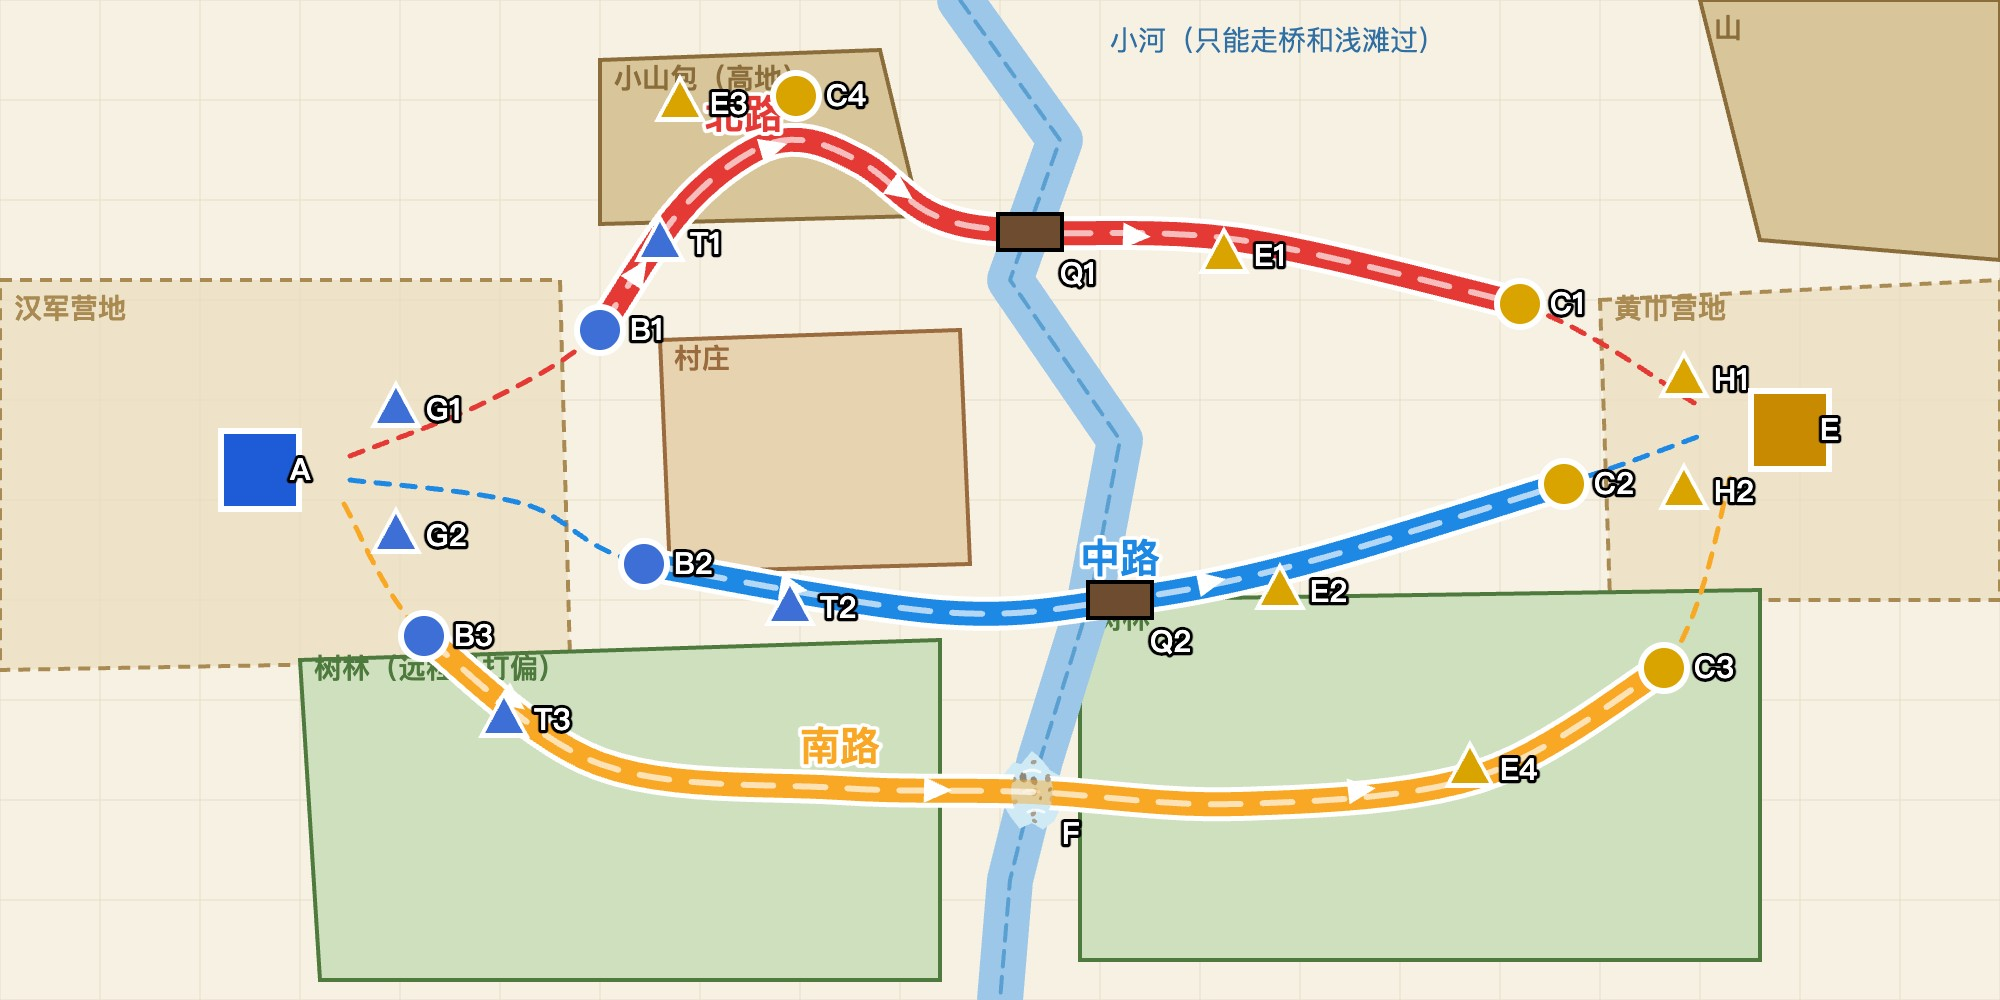
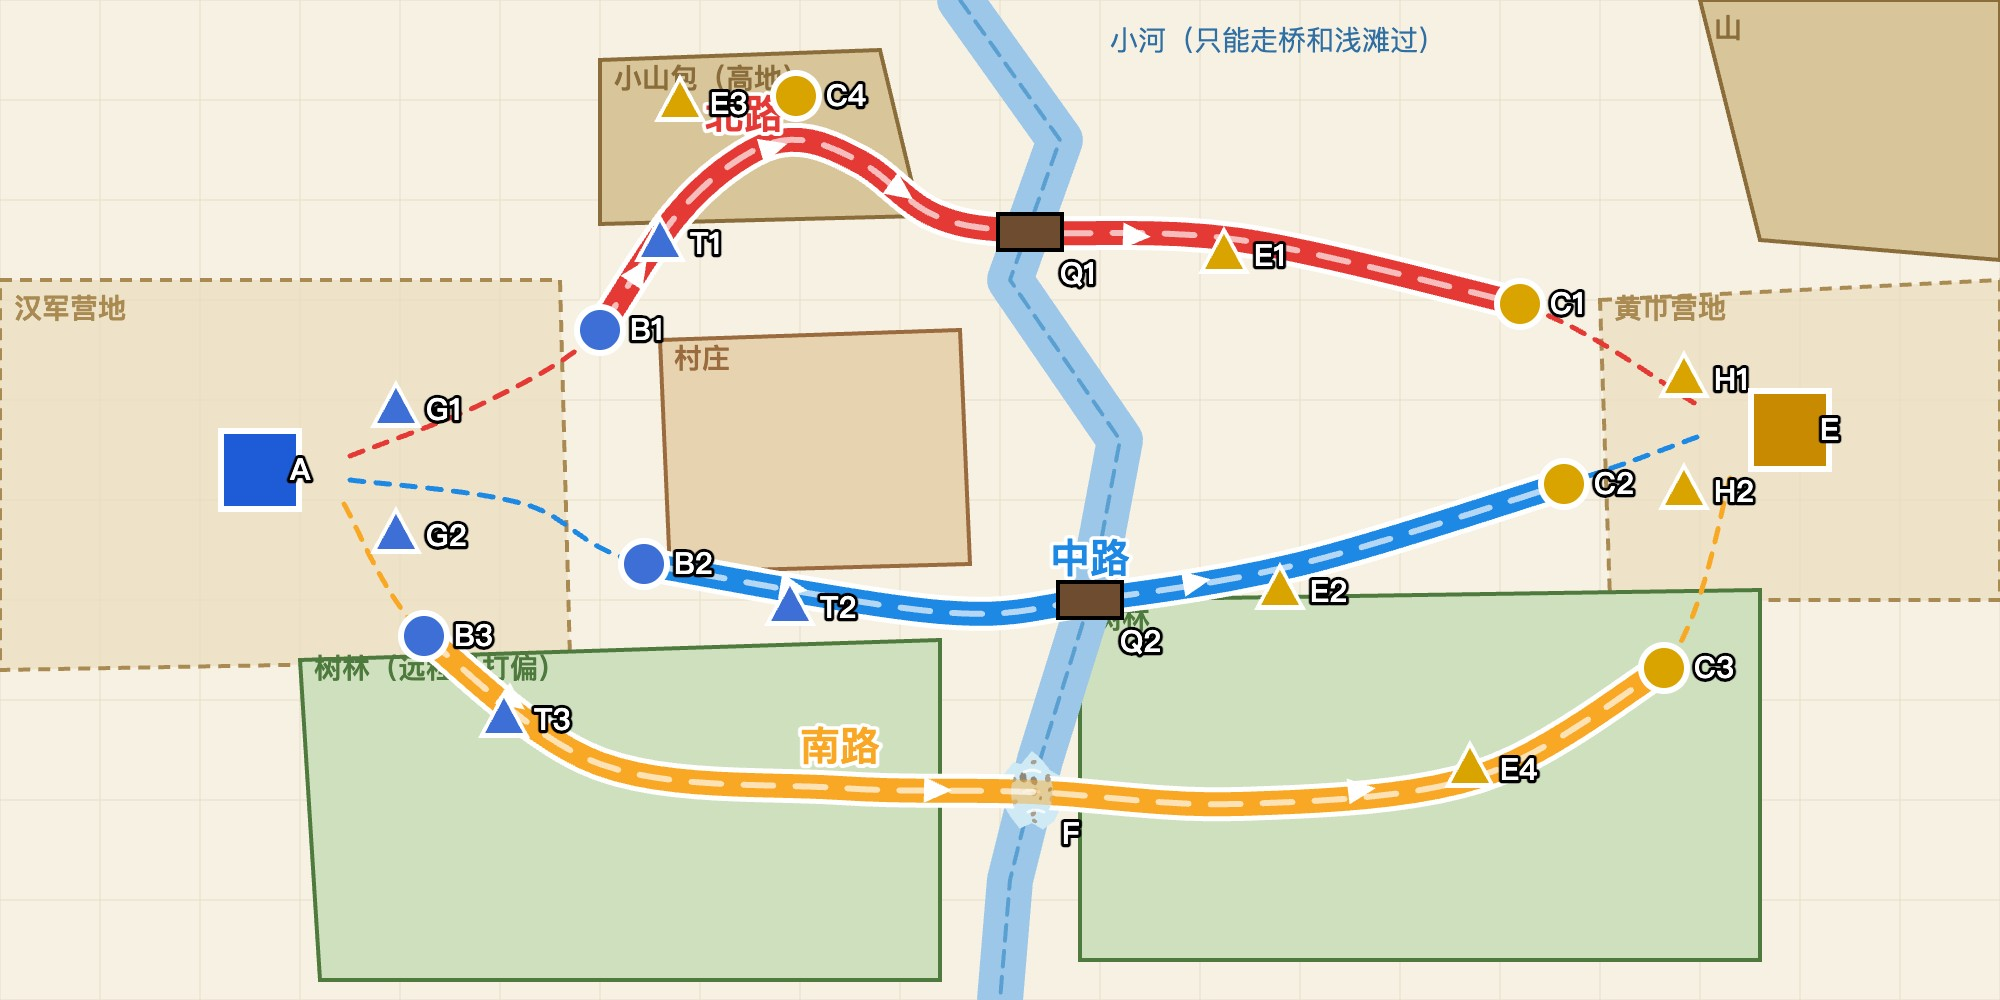
修正中桥位置（原来偏离河道 15）；新增出图前规划检查 check_plan.py，出图后检查桥是否架在河上

Changed region(s): [[0.496, 0.527, 0.651, 0.682], [0.713, 0.496, 0.744, 0.527], [0.682, 0.527, 0.713, 0.558]]

diff --git a/docs/涿郡出图参考.html b/docs/涿郡出图参考.html
@@ -8,7 +8,7 @@ h2{margin:6px 0 8px}.k{display:inline-block;width:26px;height:26px;border-radius
 const K=2;
 const ROUTES={
  北路:{c:'#e53935',road:[2,10],p:[[175,228],[245,200],[300,165],[338,108],[372,78],[400,70],[432,82],[468,108],[515,116],[620,120],[760,152],[848,202]],note:'必经小山包：上坡、翻过山顶（黄巾占着）、下坡，再过北桥；上坡移速 -25%'},
- 中路:{c:'#1e88e5',road:[2,6],p:[[175,240],[262,252],[322,282],[470,306],[560,300],[650,282],[782,242],[850,218]],note:'最短；沿村庄南边；中桥窄，会挤'},
+ 中路:{c:'#1e88e5',road:[2,6],p:[[175,240],[262,252],[322,282],[470,306],[545,300],[650,282],[782,242],[850,218]],note:'最短；沿村庄南边；中桥窄，会挤'},
  南路:{c:'#f9a825',road:[1,7],p:[[172,252],[212,318],[300,382],[420,394],[516,396],[620,402],[740,388],[832,334],[866,236]],note:'穿两片树林，浅滩涉水；最慢；树林里远程易打偏'},
 };
 // 关键点位：[编号, 名称, x, y, 类型, 说明]
@@ -25,7 +25,7 @@ const PTS=[
  ['T2','汉军箭塔·中',395,304,'tower','B2 前方，保护中路兵营'],
  ['T3','汉军箭塔·南',252,360,'tower','B3 前方，保护南路兵营'],
  ['Q1','北桥（宽）',515,116,'bridge','北路过河；宽，可 3 人并排'],
- ['Q2','中桥（窄）',560,300,'bridge','中路过河；窄，只能 2 人并排'],
+ ['Q2','中桥（窄）',545,300,'bridge','中路过河；窄，只能 2 人并排'],
  ['F','浅滩',516,396,'ford','南路涉水；移速 -50%，骑兵 -60%'],
  ['C1','黄巾兵营·北',760,152,'ecamp','北桥东岸'],
  ['C2','黄巾兵营·中',782,242,'ecamp','中桥东岸'],

diff --git a/docs/涿郡路线规划.html b/docs/涿郡路线规划.html
@@ -8,7 +8,7 @@ h2{margin:6px 0 8px}.k{display:inline-block;width:26px;height:26px;border-radius
 const K=2;
 const ROUTES={
  北路:{c:'#e53935',road:[2,10],p:[[175,228],[245,200],[300,165],[338,108],[372,78],[400,70],[432,82],[468,108],[515,116],[620,120],[760,152],[848,202]],note:'必经小山包：上坡、翻过山顶（黄巾占着）、下坡，再过北桥；上坡移速 -25%'},
- 中路:{c:'#1e88e5',road:[2,6],p:[[175,240],[262,252],[322,282],[470,306],[560,300],[650,282],[782,242],[850,218]],note:'最短；沿村庄南边；中桥窄，会挤'},
+ 中路:{c:'#1e88e5',road:[2,6],p:[[175,240],[262,252],[322,282],[470,306],[545,300],[650,282],[782,242],[850,218]],note:'最短；沿村庄南边；中桥窄，会挤'},
  南路:{c:'#f9a825',road:[1,7],p:[[172,252],[212,318],[300,382],[420,394],[516,396],[620,402],[740,388],[832,334],[866,236]],note:'穿两片树林，浅滩涉水；最慢；树林里远程易打偏'},
 };
 // 关键点位：[编号, 名称, x, y, 类型, 说明]
@@ -25,7 +25,7 @@ const PTS=[
  ['T2','汉军箭塔·中',395,304,'tower','B2 前方，保护中路兵营'],
  ['T3','汉军箭塔·南',252,360,'tower','B3 前方，保护南路兵营'],
  ['Q1','北桥（宽）',515,116,'bridge','北路过河；宽，可 3 人并排'],
- ['Q2','中桥（窄）',560,300,'bridge','中路过河；窄，只能 2 人并排'],
+ ['Q2','中桥（窄）',545,300,'bridge','中路过河；窄，只能 2 人并排'],
  ['F','浅滩',516,396,'ford','南路涉水；移速 -50%，骑兵 -60%'],
  ['C1','黄巾兵营·北',760,152,'ecamp','北桥东岸'],
  ['C2','黄巾兵营·中',782,242,'ecamp','中桥东岸'],

diff --git a/tools/art/check_routes.py b/tools/art/check_routes.py
@@ -1,6 +1,6 @@
 """核对 AI 画的地图上的路和规划路线是否一致：沿规划路线每隔几像素，在法线方向 ±R 像素内找路面（按颜色），
 记录偏差；输出每条路线的覆盖率、平均/最大偏差，并画一张检查图（规划线 + 识别出的路面）。
-用法：python3 tools/art/check_routes.py 地图.png 路线.json 检查图.jpg  （路线 json：{名字: [[x,y],...]}，坐标按 1000×500）
+用法：python3 tools/art/check_routes.py 地图.png 路线.json 检查图.jpg [过河点.json]  （路线 json：{名字: [[x,y],...]}，过河点 json：{编号: [x,y]}，坐标按 1000×500）
 """
 import json, math, subprocess, sys
 src, rj, out = sys.argv[1], sys.argv[2], sys.argv[3]
@@ -31,6 +31,38 @@ for name, pts in routes.items():
             miss += 1; marks.append((x, y, 0))
     report[name] = {"覆盖率": round(1 - miss / len(P), 3), "平均偏差px": round(sum(devs) / max(1, len(devs)), 1), "缺失点": miss}
 print(json.dumps(report, ensure_ascii=False))
+# 过河点（可选第 4 个参数，json：{编号: [x,y]}）：量桥上下两侧河水的中心，看桥是不是真的架在河上
+bad = []
+if len(sys.argv) > 4:
+    def water(x, y):
+        i = (y * W + x) * 3; r, g, b = raw[i], raw[i + 1], raw[i + 2]
+        return b > 150 and b - r > 50
+    def wood_px(x, y):
+        i = (y * W + x) * 3; r, g, b = raw[i], raw[i + 1], raw[i + 2]
+        return 70 < r < 175 and 40 < g < 125 and b < 90 and r - b > 45 and r > g > b
+    def river_cx(y, x0):  # 这一行里离 x0 最近的一段连续河水的中心
+        runs, s = [], None
+        for x in range(max(0, x0 - 60), min(W, x0 + 61)):
+            if water(x, y) and s is None: s = x
+            if not water(x, y) and s is not None: runs.append((s, x - 1)); s = None
+        if s is not None: runs.append((s, min(W, x0 + 61) - 1))
+        runs = [r for r in runs if r[1] - r[0] >= 4]
+        return min(((a + b) / 2 for a, b in runs), key=lambda c: abs(c - x0), default=None)
+    for cid, (cx, cy) in json.load(open(sys.argv[4])).items():
+        cs = [c for dy in list(range(-26, -17)) + list(range(18, 27)) if 0 <= cy + dy < H and (c := river_cx(cy + dy, cx)) is not None]
+        if not cs: print(f"✗ {cid}：桥附近找不到河"); bad.append(cid); continue
+        rx = sum(cs) / len(cs); off = rx - cx; ok = abs(off) <= 7
+        msg = f"河道中心比规划{'偏右' if off > 0 else '偏左'} {abs(off):.1f}"
+        # 木桥：桥面那几行里的棕色木头，取中心，和河道中心比
+        wood = [] if not cid.startswith("Q") else [x for y in range(max(0, cy - 10), min(H, cy + 11)) for x in range(max(0, cx - 45), min(W, cx + 46)) if wood_px(x, y)]
+        if cid.startswith("Q") and len(wood) > 40:
+            bx = sorted(wood)[len(wood) // 2]; d = bx - rx
+            msg += f"；桥中心比河道中心{'偏右' if d > 0 else '偏左'} {abs(d):.1f}"
+            ok = ok and abs(d) <= 5
+        elif cid.startswith("Q"):
+            msg += "；找不到桥"; ok = False
+        print(f"{'✓' if ok else '✗'} {cid}：{msg}（都要 ≤7 / ≤5）")
+        if not ok: bad.append(cid)
 # 检查图：路面半透明白，规划点 绿=有路 红=没路
 buf = bytearray(W * H * 4)
 for y in range(H):
@@ -44,3 +76,4 @@ for x, y, ok in marks:
             if 0 <= X < W and 0 <= Y < H: buf[(Y * W + X) * 4:(Y * W + X) * 4 + 4] = bytes(c)
 subprocess.run(["ffmpeg", "-loglevel", "error", "-y", "-f", "rawvideo", "-pix_fmt", "rgba", "-s", f"{W}x{H}", "-i", "-", "/tmp/_ov.png"], input=bytes(buf), check=True)
 subprocess.run(["ffmpeg", "-loglevel", "error", "-y", "-i", src, "-i", "/tmp/_ov.png", "-filter_complex", f"[0]scale={W}:{H}[a];[a][1]overlay", out], check=True)
+sys.exit(1 if bad else 0)

diff --git a/tools/art/check_plan.py b/tools/art/check_plan.py
@@ -1,0 +1,61 @@
+"""出图前核对路线规划（手绘规划页 html）：不过就不许出图。
+检查：① 桥、浅滩的中心必须在河道中心线上；② 每条路正好过河一次，过河点就是一座桥或浅滩；
+③ 路的两头必须是兵营（敌我各一）。坐标按 1000×500。
+用法：python3 tools/art/check_plan.py docs/涿郡路线规划.html
+"""
+import json, math, re, sys
+
+TOL_ON_RIVER = 3   # 桥/浅滩中心离河道中心线的最大距离
+TOL_CROSS = 6      # 路过河点离桥/浅滩中心的最大距离
+TOL_END = 3        # 路的端点离兵营中心的最大距离
+
+src = open(sys.argv[1]).read()
+river = json.loads(re.search(r"// 河[^\n]*\n\s*g\.beginPath\(\);(\[\[.*?\]\])\.forEach", src).group(1))
+routes = {}
+for name, road, pts in re.findall(r"(\S+?):\{c:'[^']*',road:\[(\d+,\d+)\],p:(\[\[.*?\]\])", src):
+    a, b = map(int, road.split(",")); routes[name] = json.loads(pts)[a:b + 1]
+pts = [(i, n, float(x), float(y), t) for i, n, x, y, t in re.findall(r"\['(\w+)','([^']*)',([\d.]+),([\d.]+),'(\w+)'", src)]
+
+def seg_dist(p, a, b):
+    dx, dy = b[0] - a[0], b[1] - a[1]; L2 = dx * dx + dy * dy or 1
+    t = max(0, min(1, ((p[0] - a[0]) * dx + (p[1] - a[1]) * dy) / L2))
+    return math.dist(p, (a[0] + t * dx, a[1] + t * dy))
+def river_dist(p):
+    return min(seg_dist(p, river[i], river[i + 1]) for i in range(len(river) - 1))
+def cr(P, step=1.0):  # 和规划页 curve() 等价的 Catmull-Rom
+    o = []
+    for i in range(len(P) - 1):
+        p0, p1, p2, p3 = P[max(0, i - 1)], P[i], P[i + 1], P[min(len(P) - 1, i + 2)]
+        n = max(2, int(math.dist(p1, p2) / step))
+        for j in range(n):
+            t = j / n; t2 = t * t; t3 = t2 * t
+            o.append([0.5 * (2 * p1[k] + (-p0[k] + p2[k]) * t + (2 * p0[k] - 5 * p1[k] + 4 * p2[k] - p3[k]) * t2 + (-p0[k] + 3 * p1[k] - 3 * p2[k] + p3[k]) * t3) for k in (0, 1)])
+    return o + [P[-1]]
+def side(p):  # 点在河的哪一边：同一高度上，河道中心线左边为 -1，右边为 1
+    for i in range(len(river) - 1):
+        (x0, y0), (x1, y1) = river[i], river[i + 1]
+        if y0 <= p[1] <= y1:
+            return -1 if p[0] < x0 + (x1 - x0) * (p[1] - y0) / ((y1 - y0) or 1) else 1
+    return 0
+
+errs = []
+crossings = [p for p in pts if p[4] in ("bridge", "ford")]
+for i, n, x, y, t in crossings:
+    d = river_dist((x, y))
+    print(f"{i} {n}：离河道中心 {d:.1f}")
+    if d > TOL_ON_RIVER: errs.append(f"{i}（{n}）不在河上：离河道中心 {d:.1f}，要 ≤{TOL_ON_RIVER}")
+camps = [p for p in pts if p[4] in ("camp", "ecamp")]
+for name, P in routes.items():
+    C = cr(P); xs = [k for k in range(len(C) - 1) if side(C[k]) * side(C[k + 1]) < 0]
+    print(f"{name}：过河 {len(xs)} 次")
+    if len(xs) != 1: errs.append(f"{name} 过河 {len(xs)} 次，要正好 1 次"); continue
+    c = C[xs[0]]; best = min(crossings, key=lambda p: math.dist(c, (p[2], p[3])))
+    d = math.dist(c, (best[2], best[3]))
+    print(f"  过河点 ({c[0]:.0f},{c[1]:.0f}) → {best[0]} 距离 {d:.1f}")
+    if d > TOL_CROSS: errs.append(f"{name} 过河点 ({c[0]:.0f},{c[1]:.0f}) 不在桥/浅滩上，最近的 {best[0]} 差 {d:.1f}")
+    for end, lab in ((P[0], "起点"), (P[-1], "终点")):
+        cb = min(camps, key=lambda p: math.dist(end, (p[2], p[3])))
+        dd = math.dist(end, (cb[2], cb[3]))
+        if dd > TOL_END: errs.append(f"{name} {lab} {end} 不在兵营上，最近的 {cb[0]} 差 {dd:.1f}")
+print("\n".join(["✗ " + e for e in errs]) if errs else "✓ 规划检查通过")
+sys.exit(1 if errs else 0)

diff --git a/docs/地图风格.md b/docs/地图风格.md
@@ -82,6 +82,14 @@
 
 ---
 
+## 出图前后必须跑的检查（2026-10-21，花钱前不能省）
+
+1. **出图前**：`python3 tools/art/check_plan.py docs/XX路线规划.html` —— 桥、浅滩必须在河道中心线上，每条路正好过河一次且过在桥/浅滩上，路两头是兵营。**不通过不许出图。**（规划图上桥偏离河道，AI 就会照着把桥画歪，已经因此白出过两批图。）
+2. **出图后**：`python3 tools/art/check_routes.py 地图.png 路线.json 检查图.jpg 过河点.json` —— 除了路线覆盖率，还量每座桥是否真的架在河上（桥中心和河道中心差 ≤5）。
+3. 覆盖率高不代表对：还要人眼看有没有多出来的路、山包位置对不对。
+
+---
+
 ## 待你确认
 
 1. 画风：和现在的士兵、建筑一样的 Q 版手绘，可以吗？
